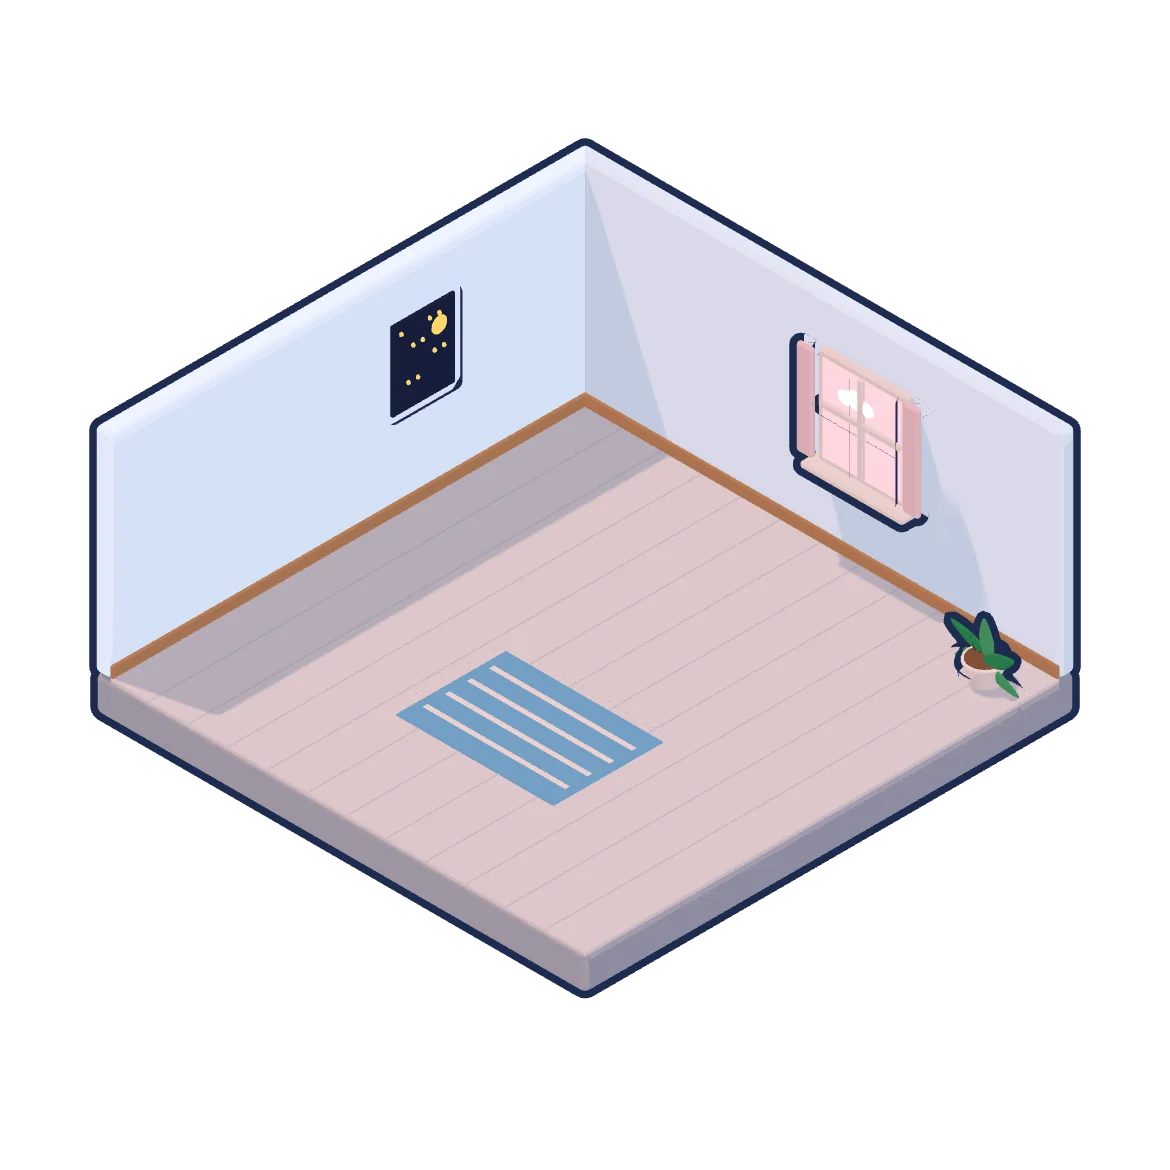
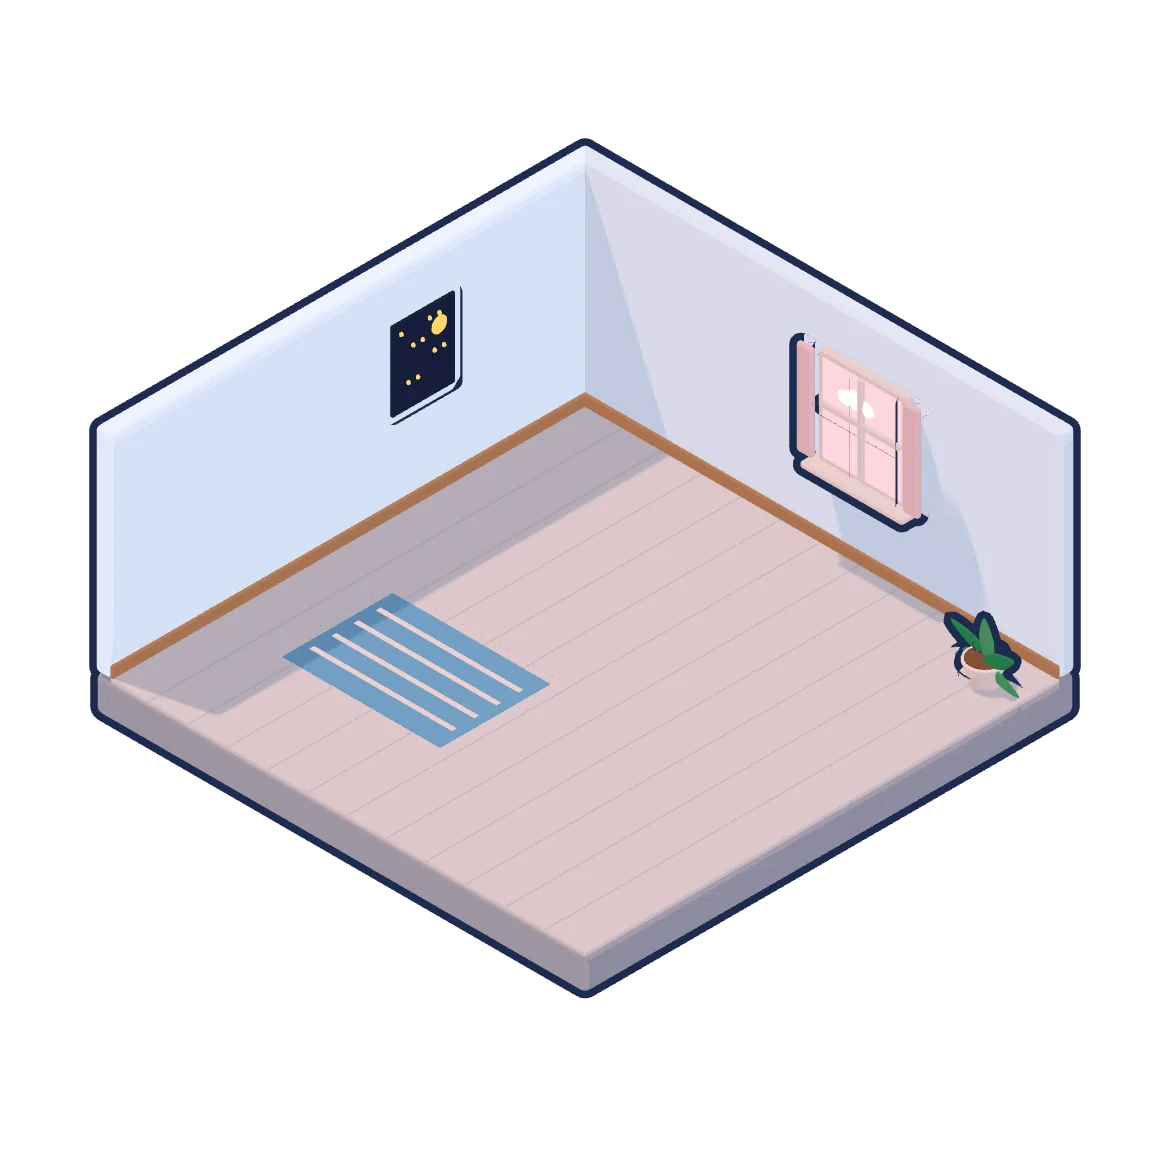
M1: integrate verified spacious bedroom artwork into experimental house
* feat(M1): atomically repack bedroom WebP lighting/states and scene hit geometry

* test(M1): all bedroom states, layer bounds, unchanged special spots and other scenes

* test(M1): verify bedroom interactive image/hotspot loading and bed clickability at four widths

* ci(M1): regenerate and test all bedroom sprites and commit only to isolated PR branch

* docs(M1): bedroom WebP repack, test and production safety checklist

* docs(M1): checkpoint bedroom final-asset staging workflow and follow-on gates

* fix(M1): enable actual bedroom sprite tap targets without making backdrop interactive

* test(M1): explicitly require tappable bedroom furniture and inert background

* test(M1): require genuine reachable bed pixels despite overlapping wardrobe projection

* test(M1): retain composite review overlay across room DOM rerenders

* Render(M1): synchronized spacious bedroom layers and scene metadata

---------

Changed region(s): [[0.2462, 0.4923, 0.5846, 0.7077]]

diff --git a/index.html b/index.html
@@ -1066,6 +1066,13 @@ body.sheet-open nav.tabs{display:none}
 .lay{position:absolute;display:block;padding:0;margin:0;border:0;background:none}
 .lay img{width:100%;height:100%;display:block;pointer-events:none}
 .lay.hot{cursor:pointer;-webkit-tap-highlight-color:transparent;pointer-events:none}
+/* M1 bedroom hotspot fix: the source images are noninteractive, but their
+   explicit furniture buttons must receive real taps and keyboard activation.
+   Scoped to these two redesigned rooms to preserve every other scene. */
+#v-phong-anh .room3d button.lay.hot[data-ri],
+#v-phong-em .room3d button.lay.hot[data-ri]{pointer-events:auto}
+#v-phong-anh .room3d img.wbg,
+#v-phong-em .room3d img.wbg{pointer-events:none}
 .lay.hot.press img{transform:translateY(4px)}
 .lay.hot:focus-visible{outline:6px solid var(--pink);outline-offset:4px;border-radius:20px}
 .onwall{position:absolute;left:0;top:0;z-index:4;transform-origin:0 0;pointer-events:none;overflow:hidden}

diff --git a/scripts/m1-pack-bedroom-assets.py b/scripts/m1-pack-bedroom-assets.py
@@ -1,0 +1,72 @@
+#!/usr/bin/env python3
+"""Repack ONLY two bedrooms from verified Three.js source renders.
+CI feature-branch only; never reads or writes Firebase or production files.
+"""
+import json
+from pathlib import Path
+from PIL import Image
+ROOT=Path(__file__).resolve().parents[1]
+OUTPUT=ROOT/'out_bedrooms'
+ASSETS=ROOT/'assets/3d'
+SCENE=ASSETS/'scene.json'
+ROMS=('phong_anh','phong_em')
+LIGHT=('sang','ngay','chieu','dem')
+meta=json.loads((OUTPUT/'meta.json').read_text(encoding='utf-8'))
+scene=json.loads(SCENE.read_text(encoding='utf-8'))
+if any(room not in scene['rooms'] for room in ROMS):
+    raise ValueError('UNKNOWN_BEDROOM')
+manifest={'protocol':'M1_BEDROOM_ASSET_PACK_REVIEW',
+    'rooms':list(ROMS),'source':'_xuong-3d/rooms2.js',
+    'approval':'EXPERIMENTAL_ONLY','firebaseWrites':False,
+    'otherRoomsPreserved':True,'generated':[]}
+def read(name):
+    img=Image.open(OUTPUT/name).convert('RGBA')
+    if img.size!=(1170,1170):
+        raise ValueError('NOT_1170_RENDER '+name)
+    return img
+def save(img,name,quality=86):
+    img.save(ASSETS/name,'WEBP',quality=quality,method=6)
+    manifest['generated'].append(name)
+for room in ROMS:
+    original=scene['rooms'][room]
+    next_meta=meta[room+'_meta']
+    if next_meta['size']!=[1170,1170] or next_meta['items']!=original['items']:
+        raise ValueError('BEDROOM_SCHEMA_DRIFT '+room)
+    if set(next_meta['spots'])!=set(original['spots']):
+        raise ValueError('BEDROOM_SPOT_KEYS_CHANGED '+room)
+    # These source positions were deliberately preserved by the redesign.
+    for key,points in original['spots'].items():
+        candidate=next_meta['spots'][key]
+        if isinstance(points,list) and isinstance(candidate,list) and len(points)==len(candidate):
+            if points and isinstance(points[0],list):
+                for original_spot,next_spot in zip(points,candidate):
+                    if any(abs(a-b)>1 for a,b in zip(original_spot,next_spot)):
+                        raise ValueError('UNEXPECTED_STANDING_SPOT_SHIFT '+room+' '+key)
+    for lighting in LIGHT:
+        save(read(room+'_'+lighting+'@3x.png'),room+'_'+lighting+'.webp',84)
+    layer_map={}
+    for name,obj in original['items'].items():
+        for state in obj['st']:
+            key=name+'_'+state
+            if key not in original['layers']:
+                raise ValueError('MISSING_EXISTING_ITEM_LAYER '+room+'_'+key)
+            image=read(room+'_'+key+'@3x.png')
+            alpha=image.getchannel('A').point(lambda x:0 if x<10 else x)
+            image.putalpha(alpha)
+            bounds=alpha.getbbox()
+            if bounds is None:
+                raise ValueError('EMPTY_RENDER_LAYER '+room+'_'+key)
+            layer_map[key]=list(bounds)
+            save(image.crop(bounds),room+'_'+key+'.webp')
+    if set(layer_map)!=set(original['layers']):
+        raise ValueError('BEDROOM_RENDER_LAYER_SET_CHANGED '+room)
+    scene['rooms'][room]={**original,**next_meta,'layers':layer_map}
+    manifest[room]={'lights':len(LIGHT),'layers':len(layer_map),
+                    'states':list(layer_map),
+                    'standingPreserved':True}
+SCENE.write_text(json.dumps(scene,ensure_ascii=False,separators=(',',':'))+'\n',encoding='utf-8')
+manifest['assetCount']=len(manifest['generated'])
+OUT=ROOT/'review-artifacts/bedroom-spacious'
+OUT.mkdir(parents=True,exist_ok=True)
+(OUT/'pack-manifest.json').write_text(json.dumps(manifest,ensure_ascii=False,indent=2)+'\n',encoding='utf-8')
+print('BEDROOM_PACK_OK',manifest['assetCount'],manifest['rooms'])

diff --git a/docs/GOC-NHO-MASTER-ROADMAP.md b/docs/GOC-NHO-MASTER-ROADMAP.md
@@ -427,3 +427,10 @@ Next safe action:
 - New isolated source-render pilot branch `feature/m1-spacious-bedroom-source-pilot`. In `_xuong-3d/rooms2.js`, move both 1.2×2.0m beds modestly toward back wall, shift decorative rugs nearer bedside, and move teddy from center toward right side in Phòng Em. Keep all live room item IDs/states, user-stand points, diary/wardrobe, and props; no changes to shipped WebPs or `scene.json` in this pilot.
 - `_xuong-3d/bedroom-spacious-pilot.js` records old/next positions and a conservative approximate clearance change, **not** verified collision or editable decor area. `scripts/m1-bedroom-spacious-compare.py` builds two true composited day before/after images from shipped source and new 3D render. CI branch-specific step renders both bedroom rooms and uploads review images; `tests/staging/m1-bedroom-spacious-source.test.mjs` verifies source relationships.
 - Before merging, check new branch Actions and visually review both artifacts for clipped walls/canopy/diary, teddy obstructing human positions, contrast and consistent depth. After a green review, merge ONLY into PR #9 experimental branch. Do NOT update live assets yet: next PR must recrop all light/states, update metadata and rerun actual app browser/touch tests. M0 real Firebase safety gates still block PR #9→main.
+
+
+### Handoff — 2026-11-05, M1 two-bedroom real asset rollout (PR pending)
+- PR #62 bedroom pilot merged to PR #9 experimental branch at 4e97cfb9 after inspecting actual before/after 3D renders. Its head Actions 41993899233 succeeded 85 staging + 33 Playwright + 29 Firebase Emulator. Scene beds moved to rear wall modestly and Phòng Em teddy toward right; review-only until new images are packaged.
+- Branch feature/m1-spacious-bedroom-assets from PR #9 experiments only. scripts/m1-pack-bedroom-assets.py regenerates both rooms' four lighting backgrounds and every furniture state using the REAL 3D source and synchronized metadata for image boxes, and explicitly preserves all other rooms and standing/flower shelf points.
+- Workflow garden-browser.yml renders/repacks assets BEFORE npm test on this feature branch; it commits the resulting WebP binaries/scene.json to ONLY this PR head branch after tests. Browser test m1-bedroom-spacious-interaction.spec.mjs verifies hotspot/image layout at 360/390/430/1300; unit test m1-bedroom-packed-assets.test.mjs checks complete states.
+- Do not claim CI success on generated assets without verifying GitHub Actions for the final binary HEAD (a bot commit may fail to trigger a workflow). Inspect new renders and metadata and only then merge to PR #9 experimental parent. Recheck CI after merge; keep PR #9 Draft and main/Firebase production unchanged. Approved real floor/contact masks and M0 security/backups remain blockers.

diff --git a/docs/M1-SPACIOUS-BEDROOM-ASSET-ROLLOUT.md b/docs/M1-SPACIOUS-BEDROOM-ASSET-ROLLOUT.md
@@ -1,0 +1,22 @@
+# M1 — Bedroom spacious asset rollout on experimental branch
+
+## Scope
+PR #62 reviewed the before/after actual Three.js renders and merged its source geometry into PR #9 at 4e97cfb9. This separate PR packages the actual photos and scene metadata for Phòng Anh and Phòng Em; it does not deploy to main or write Firebase.
+
+## Implementation checklist
+- scripts/m1-pack-bedroom-assets.py takes full 1170x1170 PNGs from the authentic rooms2.js jobs, repacks four lighting backgrounds (sang/ngay/chieu/dem) and all item/state sprites, crop with alpha threshold 10.
+- Update only scene.rooms.phong_anh and scene.rooms.phong_em within assets/3d/scene.json. Other rooms, map, living room, kitchen, rig, and the garden stay untouched.
+- Validate that item/state keys, image sizes, two standing points and the six flower-shelf anchors do not drift; otherwise refuse to package.
+- GitHub Actions renders/repacks before npm test, confirms staging/Playwright/Firebase Emulator on new assets, then commits tested WebP and scene.json only to isolated feature/m1-spacious-bedroom-assets. A separate CI on the final binary HEAD is required because bot pushes do not necessarily trigger PR checks.
+- tests/staging/m1-bedroom-packed-assets.test.mjs verifies all lighting, 4 interactive objects per bedroom, sprite bounds, and scene compatibility.
+- tests/browser/m1-bedroom-spacious-interaction.spec.mjs exercises real sprite image loading and room geometry across phone and wide breakpoints, and trial-clicks the bed hotspot.
+- scripts/m1-bedroom-spacious-compare.py provides two before/after renders and a provisional review manifest.
+
+## Merge gates
+1. No Firestore rules, Firebase config, live data, index.html, unrelated room assets or collections changed.
+2. Green staging, browser and emulator tests on the binary HEAD, then post-merge CI on the parent branch.
+3. Visually correct bed/canopy, desk, bear, flower shelf and diary; no clipped assets. All sprite hotspots align with current metadata.
+4. Scene floor, doorways and contact masks remain UNAPPROVED; no shared decoration writes may be enabled.
+5. PR #9 stays Draft until actual M0 production security, staging backup/restore and rollback checks complete.
+
+After these two bedrooms, prioritize the remaining studio and attic rooms using the same source-rendered review and separate asset packaging process.
